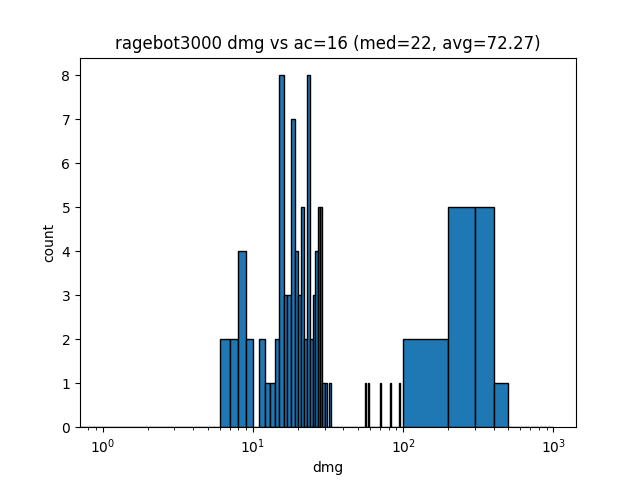
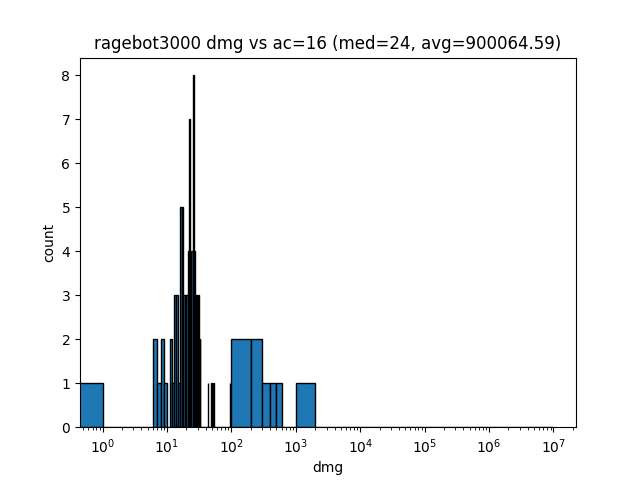
update

diff --git a/players/ragebot3000.py b/players/ragebot3000.py
@@ -4,6 +4,8 @@ import matplotlib.pyplot
 import dnd
 import dnd_stats
 
+MAX_DMG = 1e7
+
 def inf_axe_attack(hit_dc, enemy_ac, indent, advantage=False, verbose=True):
 
     # Infinity Axe key stats
@@ -20,6 +22,8 @@ def inf_axe_attack(hit_dc, enemy_ac, indent, advantage=False, verbose=True):
     crit_threads = 1
     dnd.log(f"{indent}ADDING CRIT THREAD", verbose)
     while crit_threads > 0:
+        if tot_dmg > MAX_DMG:
+            return tot_dmg
         dnd.log(f"{indent}START CRIT THREAD (PENDING CRIT THREADS: {crit_threads})", verbose)
         crit_threads -= 1
         thread_dmg = 0
@@ -59,10 +63,14 @@ def run_simulations():
     attacks = 2
     hit_dc = 9
     advantage = True
+    champion = True
     trials = 100
     verbose = False
     bins = get_bins()
     log_bins = get_log_bins()
+
+    if champion:
+        dnd.crit = lambda roll: roll == 19 or roll == 20
 
     for enemy_ac in enemy_acs:
         data = []

diff --git a/lib/dnd.py b/lib/dnd.py
@@ -1,8 +1,10 @@
 import random 
 
 INDENT = "  "
-CRIT_ROLL = 20
 CRIT_MULTIPLIER = 2
+
+def crit(roll):
+    return roll == 20
 
 def log(msg, verbose):
     if verbose:
@@ -16,7 +18,7 @@ def hit_roll(hit_dc, enemy_ac, indent, advantage=False, verbose=True):
     tot_roll = _roll+hit_dc
     msg = f"{indent}HIT ROLL: {_roll} + {hit_dc} = {tot_roll}"
     out = {"crit": False, "hit": False}
-    if _roll == CRIT_ROLL:
+    if crit(_roll):
         msg += f" (CRIT)"
         out["crit"] = True
     if (tot_roll >= enemy_ac) or out["crit"]:
